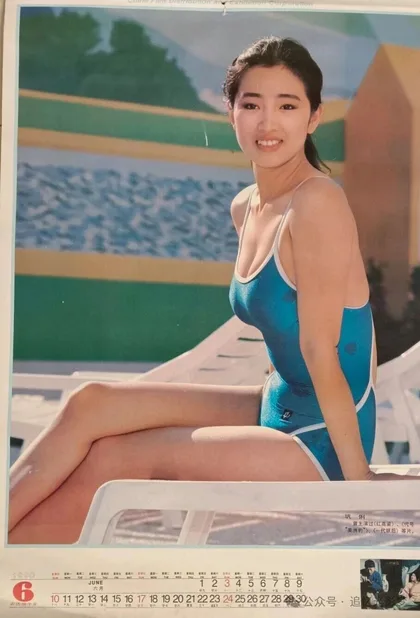
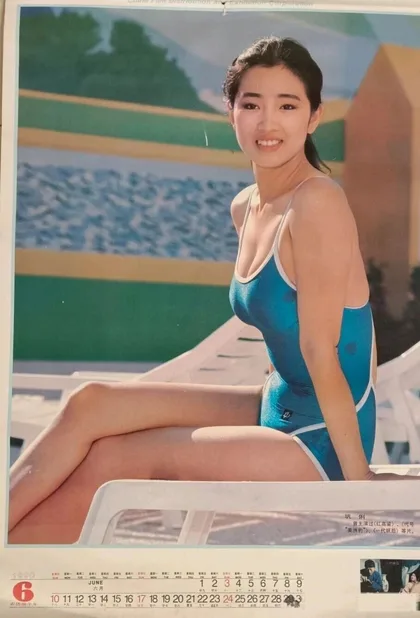
挂历去掉公众号水印
- cal-1（红毛衣）、cal-2（泳装）底下的“公众号·追忆光影梦”抹掉：用同一行旁边干净的蓝底 / 纸面盖住，压在日期上的小图标只抹灰色部分，日期数字保留
- cal-3（格子衬衫）本来就没有水印，没动
- spec、CLAUDE.md、近看截图

Claude-Session: https://claude.ai/code/session_01HJLasCaBTePKwEqSFahTsZ

Changed region(s): [[0.8357, 0.9531, 1.0, 1.0], [0.681, 0.9531, 0.8048, 0.9838]]

diff --git a/docs/scene-spec.md b/docs/scene-spec.md
@@ -166,7 +166,7 @@
     - **互动**：走到里屋灯绳旁出“拉灯”按钮（或按 E、或直接点灯绳）：咔哒一声，**屋顶的灯泡亮了，再拉就灭**
     - 灯泡：八九十年代的梨形白炽灯泡，约 15 瓦，昏黄的光（约 2400 K），吊在里屋顶棚正中，花线 + 黑胶木灯头；高画质下有阴影，光不透墙，但会从里屋的窗户照出去
     - 默认关着；夜里外屋那盏灯照旧亮着，里屋要自己拉开
-  - **开关这面墙（隔墙）上挂着三张明星挂历**（v27 按用户给的照片换掉了原来画的海报；**v36 又换成用户新给的三张**：九十年代初的明星挂历——红毛衣“吉祥如意”、泳装、格子衬衫）：上沿一根铁皮夹条，一根线挂在墙上的钉子上，纸发黄、往外微微翘；炕头两张（红毛衣“吉祥如意”、泳装），门洞南边一张（格子衬衫）。用的是用户发来的图片（网上翻拍，带公众号水印），会出现在公开网站上
+  - **开关这面墙（隔墙）上挂着三张明星挂历**（v27 按用户给的照片换掉了原来画的海报；**v36 又换成用户新给的三张**：九十年代初的明星挂历——红毛衣“吉祥如意”、泳装、格子衬衫）：上沿一根铁皮夹条，一根线挂在墙上的钉子上，纸发黄、往外微微翘；炕头两张（红毛衣“吉祥如意”、泳装），门洞南边一张（格子衬衫）。用的是用户发来的图片（网上翻拍；v36 按用户要求把两张上的公众号水印抹掉了），会出现在公开网站上
   - **进门右手边（西南角）一口水缸，里面有水**（已确认），缸口半盖一块木盖
   - **水缸往东是一排做蜡烛的器具**（已确认，按用户发的照片做）：
     - 两台挨着摆：长条形、上宽下窄的铁皮槽子（槽里竖着一排排蜡烛模子、灌凉水），外壳黄铜色、糊满一道道蜡泪；顶上一块浇蜡的铁板，模子口露着三排刚顶上来的白蜡烛头；一台刚浇了蜡，板上一层黄蜡

diff --git a/CLAUDE.md b/CLAUDE.md
@@ -149,7 +149,7 @@ docs/
 
 之后的迭代（各屋室内）：先改 docs/scene-spec.md，室内放 src/interiors/，挂到 interior-anchor-* 上；每次改完照旧截图自检、开 PR。
 
-第 20 轮：西北屋里屋隔墙上的三张挂历换成用户新给的三张（src/interiors/calendars/cal-1..3.webp）；同步改完整 prompt（md + pdf）。
+第 20 轮：西北屋里屋隔墙上的三张挂历换成用户新给的三张（src/interiors/calendars/cal-1..3.webp；用户要求把前两张底下的“公众号·追忆光影梦”水印抹掉了，用同一行旁边干净的纸面/蓝底盖住）；同步改完整 prompt（md + pdf）。
 
 第 19 轮：东梧桐下的水仙换成指甲桃（凤仙花，yard/impatiens.js），种在东北屋门口台阶东边、窗户底下往西一点；同步改 docs/老家院子-完整prompt.md / .pdf。
 
